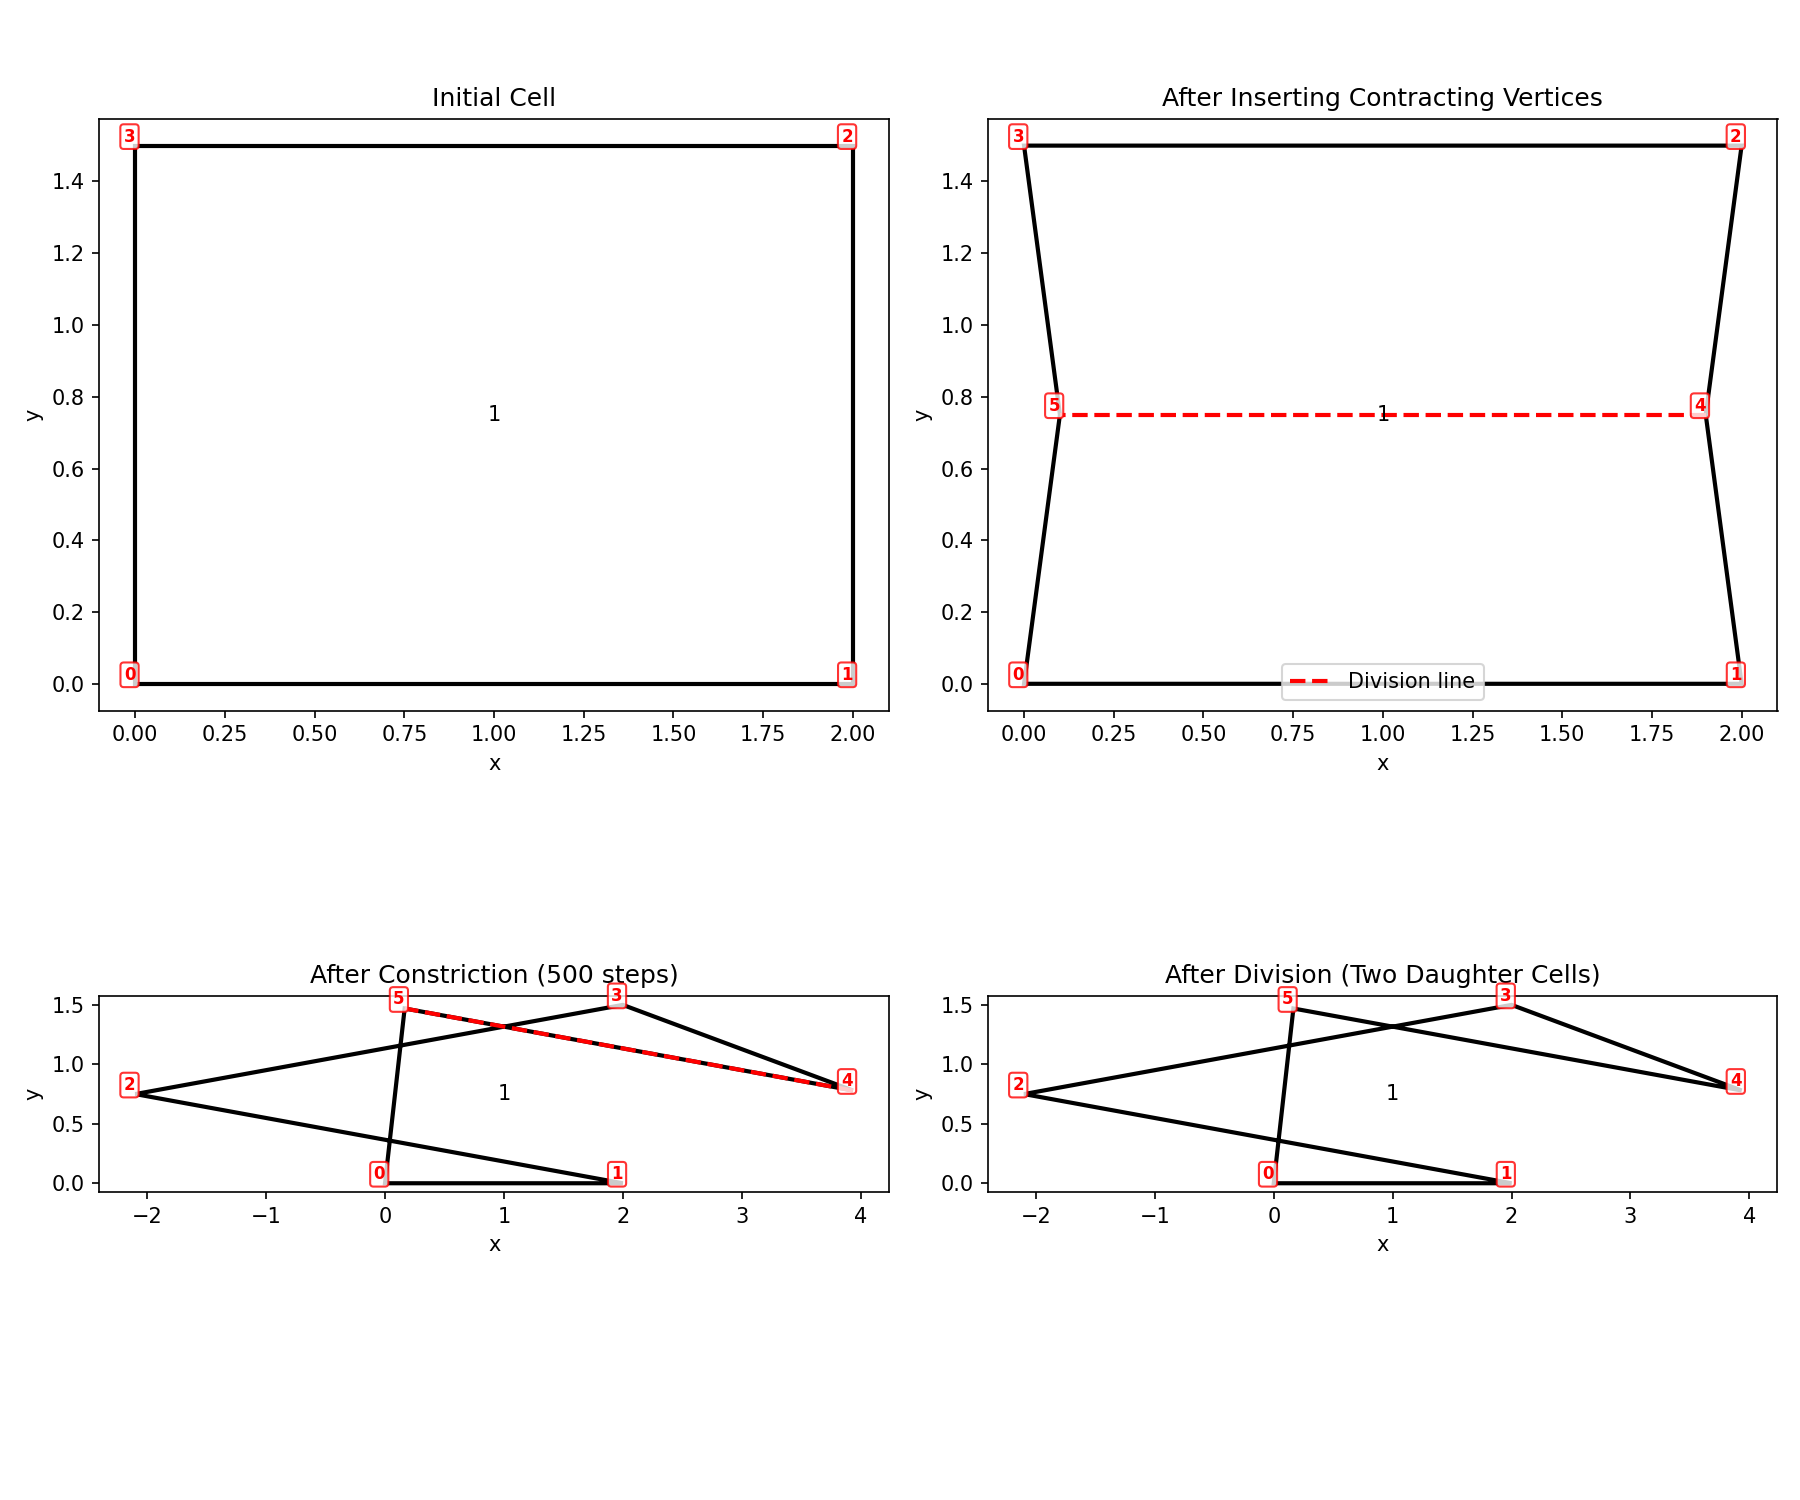
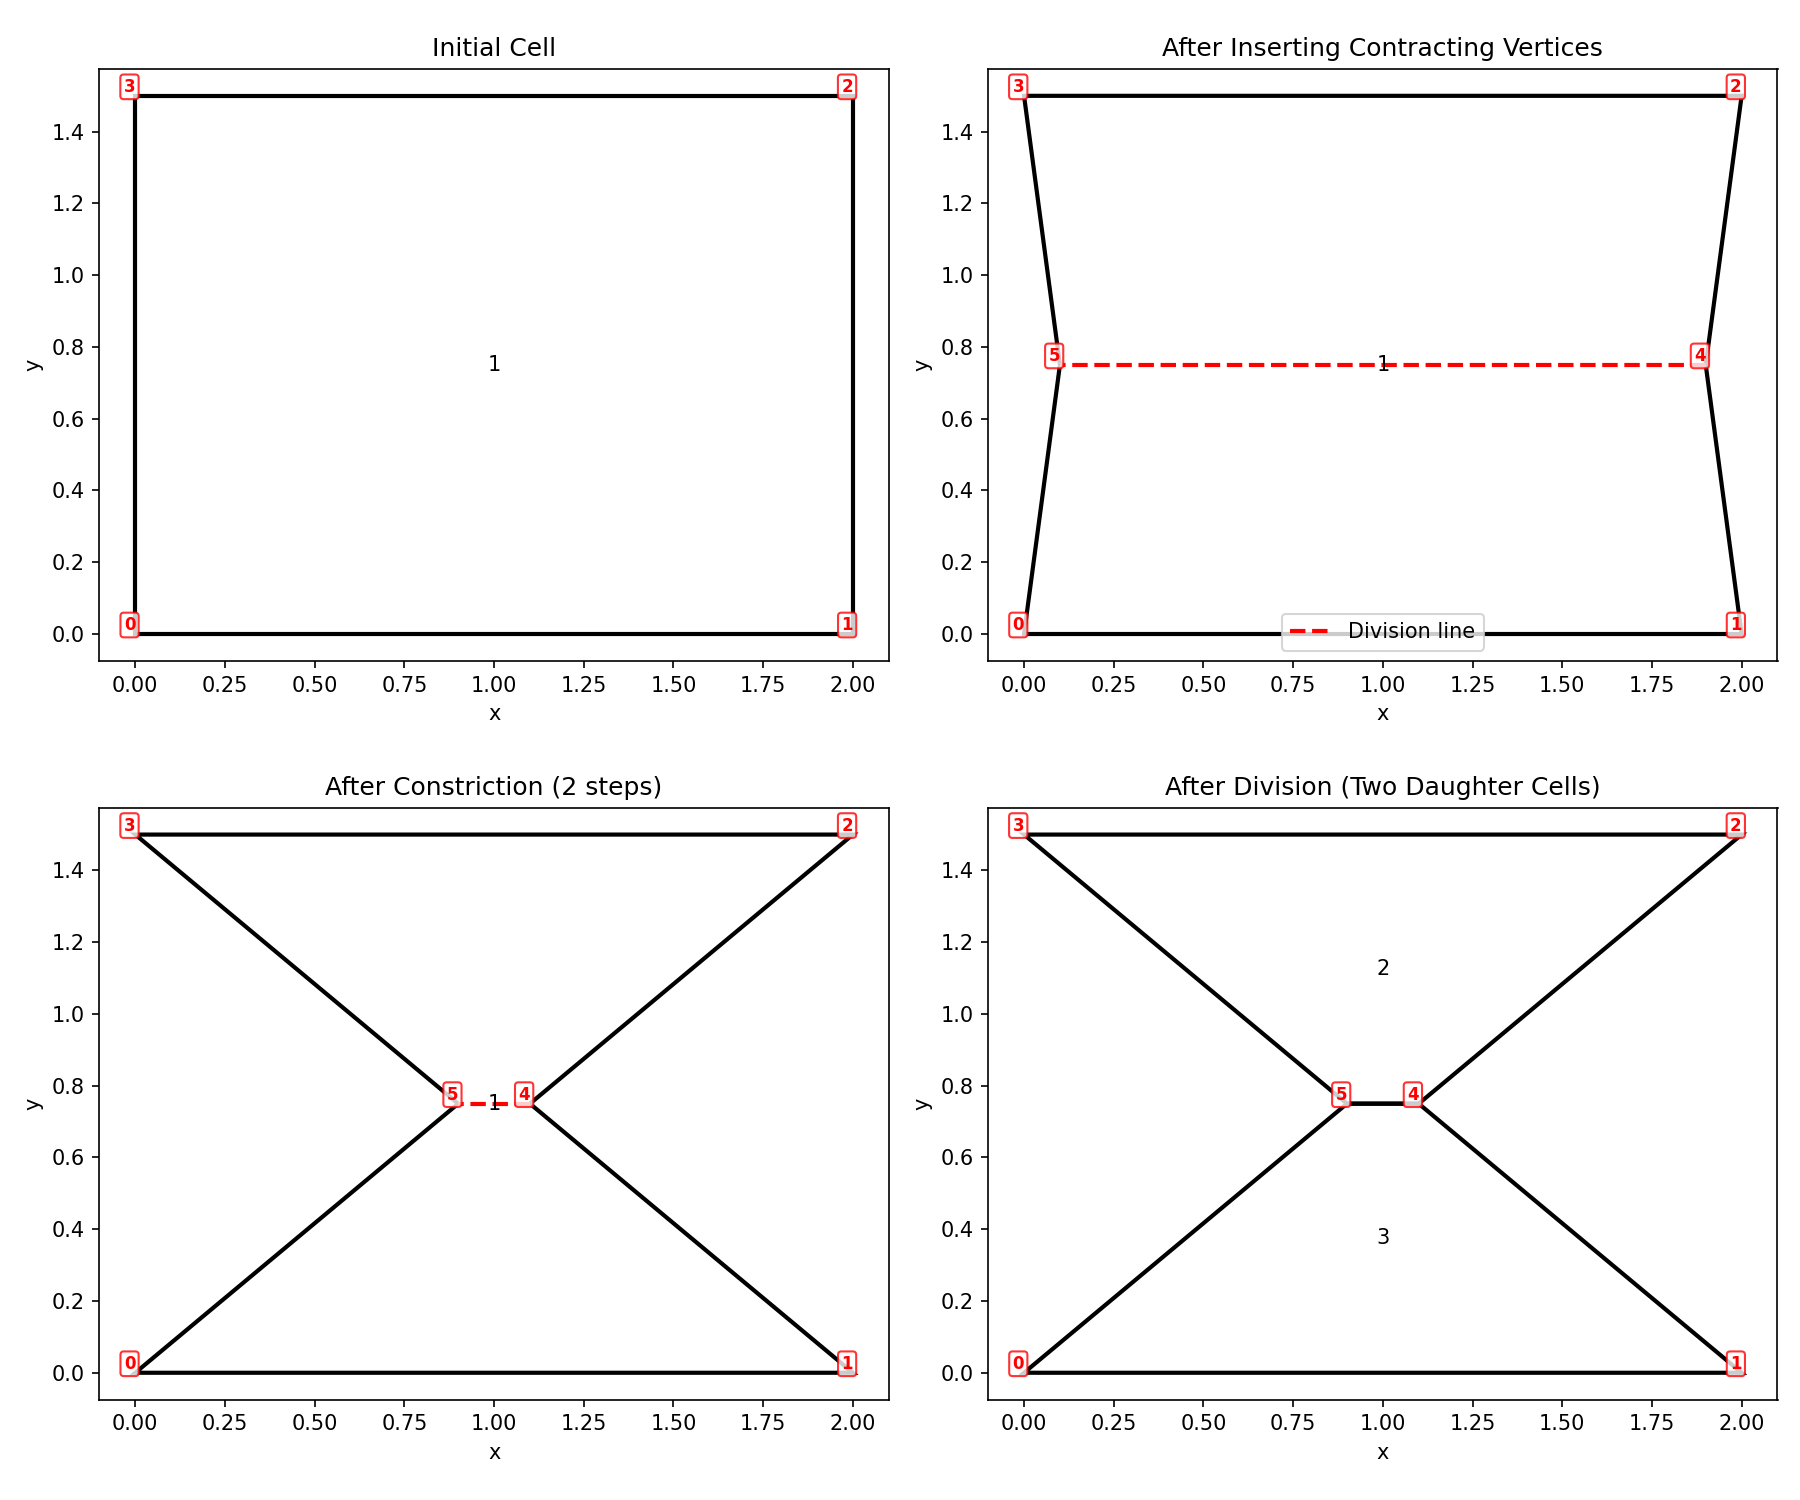
Fix cytokinesis contraction issue and remove unused variables
- Add update_global_vertices_from_cells() to preserve vertex indices during simulation
- Fix constriction check to use <= instead of < for threshold comparison
- Update example to check constriction every step instead of every 10 steps
- Increase constriction_threshold from 0.15 to 0.5 for more reliable splitting
- Remove unused variables: v1_global, v2_global, n from split_cell()
- Remove unused imports in tests: GeometryCalculator, EnergyParameters, Simulation, OverdampedForceBalanceParams
- Update documentation to explain proper usage of update_global_vertices_from_cells()

diff --git a/src/myvertexmodel/cytokinesis.py b/src/myvertexmodel/cytokinesis.py
@@ -386,7 +386,7 @@ def check_constriction(
     
     distance = np.linalg.norm(pos2 - pos1)
     
-    return distance < params.constriction_threshold
+    return distance <= params.constriction_threshold
 
 
 def split_cell(
@@ -431,14 +431,12 @@ def split_cell(
     # Ensure v1_local < v2_local for consistent ordering
     if v1_local > v2_local:
         v1_local, v2_local = v2_local, v1_local
-        v1_global, v2_global = v2_global, v1_global
     
     # Split the vertex indices into two groups
     # Daughter 1: vertices from v1 to v2 (inclusive)
     # Daughter 2: vertices from v2 to v1 (wrapping around, inclusive)
     
     indices = cell.vertex_indices
-    n = len(indices)
     
     # Daughter 1 gets vertices from v1_local to v2_local (inclusive)
     daughter1_indices = indices[v1_local:v2_local + 1]
@@ -488,6 +486,31 @@ def split_cell(
     tissue.add_cell(daughter2)
     
     return daughter1, daughter2
+
+
+def update_global_vertices_from_cells(tissue: Tissue) -> None:
+    """Update global vertex pool from cell vertices without rebuilding indices.
+    
+    This preserves the global vertex indices while updating their positions
+    based on the current cell.vertices arrays. Useful during simulation to
+    maintain consistent vertex tracking.
+    
+    Args:
+        tissue: Tissue with global vertex pool and cells with vertex_indices.
+        
+    Notes:
+        - Requires tissue.vertices and cell.vertex_indices to be already populated
+        - Updates tissue.vertices in place based on cell.vertices
+        - Does NOT change vertex_indices (preserves connectivity)
+    """
+    if tissue.vertices.shape[0] == 0:
+        return
+    
+    # For each cell, update the global vertices based on cell's local vertices
+    for cell in tissue.cells:
+        if cell.vertex_indices.shape[0] > 0 and cell.vertices.shape[0] > 0:
+            # Update global vertices from this cell's local vertices
+            tissue.vertices[cell.vertex_indices] = cell.vertices
 
 
 def perform_cytokinesis(

diff --git a/tests/test_cytokinesis.py b/tests/test_cytokinesis.py
@@ -7,7 +7,6 @@ import numpy as np
 from myvertexmodel import (
     Cell,
     Tissue,
-    GeometryCalculator,
     CytokinesisParams,
     compute_division_axis,
     insert_contracting_vertices,
@@ -15,9 +14,6 @@ from myvertexmodel import (
     check_constriction,
     split_cell,
     perform_cytokinesis,
-    EnergyParameters,
-    Simulation,
-    OverdampedForceBalanceParams,
 )
 
 
@@ -333,11 +329,6 @@ def test_cytokinesis_with_simulation():
     assert result['stage'] == 'initiated'
     v1_idx, v2_idx = result['contracting_vertices']
     
-    # Get initial distance
-    initial_distance = np.linalg.norm(
-        tissue.vertices[v1_idx] - tissue.vertices[v2_idx]
-    )
-    
     # Test that we can compute contractile forces
     forces = compute_contractile_forces(cell, tissue, params)
     assert forces.shape == cell.vertices.shape
@@ -384,7 +375,7 @@ def test_cytokinesis_validates_small_cell():
     
     # Try to insert contracting vertices
     # This might work (triangle -> pentagon)
-    v1_idx, v2_idx = insert_contracting_vertices(cell, tissue)
+    insert_contracting_vertices(cell, tissue)
     
     # But splitting might fail if daughters would have < 3 vertices
     # This depends on where the contracting vertices are inserted

diff --git a/examples/demonstrate_cytokinesis.py b/examples/demonstrate_cytokinesis.py
@@ -22,6 +22,7 @@ from myvertexmodel import (
     perform_cytokinesis,
     compute_contractile_forces,
     check_constriction,
+    update_global_vertices_from_cells,
 )
 
 
@@ -65,7 +66,7 @@ def main():
     # Initiate cytokinesis
     print("2. Initiating cytokinesis (inserting contracting vertices)...")
     cyto_params = CytokinesisParams(
-        constriction_threshold=0.15,
+        constriction_threshold=0.5,  # Threshold for splitting
         initial_separation_fraction=0.9,
         contractile_force_magnitude=80.0
     )
@@ -113,14 +114,13 @@ def main():
     max_steps = 500
     step = 0
     while step < max_steps:
-        sim.run(n_steps=10)
-        step += 10
+        sim.run(n_steps=1)  # Run one step at a time
+        step += 1
         
-        # Update global vertices from local
-        tissue.build_global_vertices()
-        tissue.reconstruct_cell_vertices()
+        # Update global vertices from local (preserves indices)
+        update_global_vertices_from_cells(tissue)
         
-        # Check constriction
+        # Check constriction after each step
         if check_constriction(cell, tissue, cyto_params):
             print(f"   Cell constricted after {step} steps!")
             break

diff --git a/src/myvertexmodel/__init__.py b/src/myvertexmodel/__init__.py
@@ -27,6 +27,7 @@ from .cytokinesis import (
     check_constriction,
     split_cell,
     perform_cytokinesis,
+    update_global_vertices_from_cells,
 )
 
 __all__ = [
@@ -63,4 +64,5 @@ __all__ = [
     "check_constriction",
     "split_cell",
     "perform_cytokinesis",
+    "update_global_vertices_from_cells",
 ]

diff --git a/docs/CYTOKINESIS_GUIDE.md b/docs/CYTOKINESIS_GUIDE.md
@@ -74,6 +74,7 @@ from myvertexmodel import (
     compute_contractile_forces,
     check_constriction,
     split_cell,
+    update_global_vertices_from_cells,
 )
 
 # 1. Compute division axis
@@ -88,6 +89,10 @@ v1_idx, v2_idx = insert_contracting_vertices(
 
 # 3. During simulation, compute contractile forces
 forces = compute_contractile_forces(cell, tissue, params)
+
+# After each simulation step, update global vertices
+# (preserves vertex indices, unlike build_global_vertices)
+update_global_vertices_from_cells(tissue)
 
 # 4. Check if ready to split
 if check_constriction(cell, tissue, params):
@@ -133,8 +138,14 @@ sim = Simulation(
 )
 
 # Run simulation with contractile forces
-sim.run(n_steps=100)
+sim.run(n_steps=1)
+
+# IMPORTANT: Update global vertices to preserve indices
+from myvertexmodel import update_global_vertices_from_cells
+update_global_vertices_from_cells(tissue)
 ```
+
+**Note**: When using cytokinesis during simulation, you must call `update_global_vertices_from_cells(tissue)` after each simulation step to update the global vertex positions while preserving the vertex indices. Do NOT use `tissue.build_global_vertices()` as it will rebuild indices and break the tracking of contracting vertices.
 
 ## Complete Example
 
@@ -156,7 +167,7 @@ tissue.build_global_vertices()
 
 # Set up cytokinesis
 params = CytokinesisParams(
-    constriction_threshold=0.15,
+    constriction_threshold=0.5,  # Adjust based on cell size and forces
     contractile_force_magnitude=80.0
 )
 
